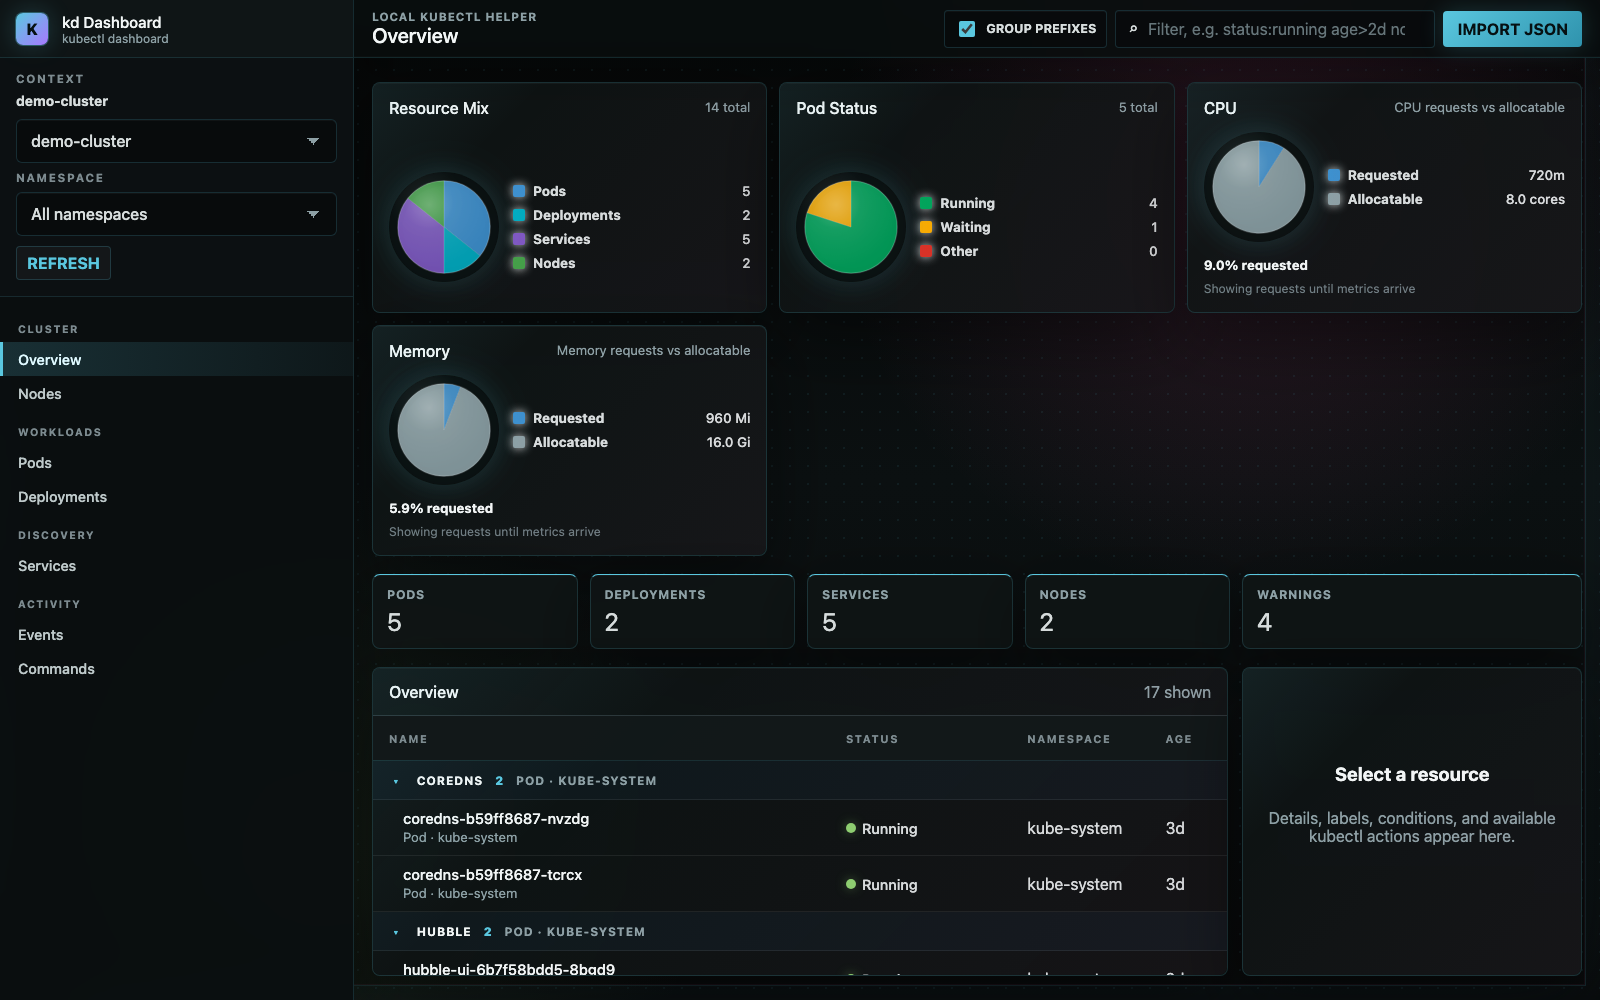
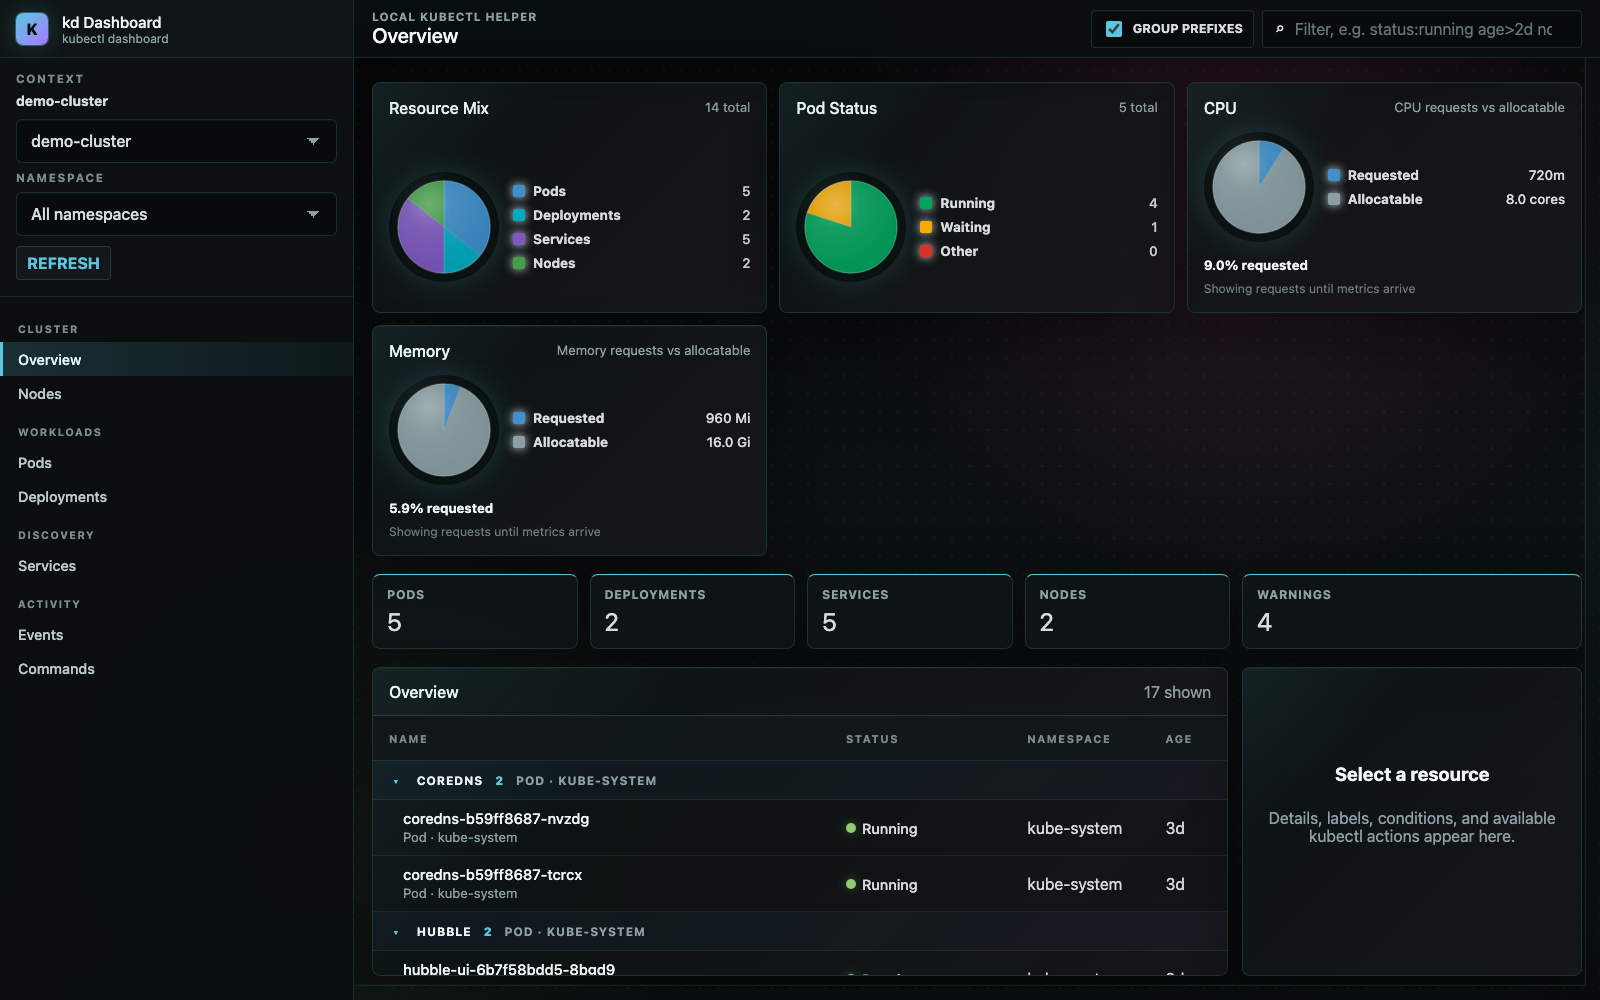
Hide JSON import when connected

Changed region(s): [[0.5938, 0.0, 1.0, 0.062]]

diff --git a/app.js b/app.js
@@ -51,6 +51,7 @@ const selectors = {
   stats: document.querySelector("#stats"),
   searchInput: document.querySelector("#searchInput"),
   groupToggle: document.querySelector("#groupToggle"),
+  loadButton: document.querySelector("#loadButton"),
   namespaceFilter: document.querySelector("#namespaceFilter"),
   importPanel: document.querySelector("#importPanel"),
   jsonInput: document.querySelector("#jsonInput"),
@@ -122,7 +123,7 @@ function bindEvents() {
     });
   });
 
-  document.querySelector("#loadButton").addEventListener("click", () => {
+  selectors.loadButton.addEventListener("click", () => {
     selectors.importPanel.classList.toggle("collapsed");
     if (!selectors.importPanel.classList.contains("collapsed")) {
       selectors.jsonInput.focus();
@@ -467,6 +468,7 @@ function render() {
   selectors.tableTitle.textContent = view.title === "Commands" ? "Command cookbook" : view.title;
   selectors.searchInput.disabled = view.kind === "commands";
   selectors.namespaceFilter.disabled = view.kind === "nodes" || view.kind === "commands";
+  selectors.loadButton.hidden = state.apiAvailable;
   selectors.importPanel.classList.toggle("collapsed", state.apiAvailable || allResources().length > 0);
   selectors.charts.classList.toggle("collapsed", view.kind !== "overview");
   renderCharts();

diff --git a/README.md b/README.md
@@ -60,13 +60,13 @@ kd --port 9000
 kd --file
 ```
 
-If you open `index.html` directly without `kd`, you can still use fallback import mode:
+If you open `index.html` directly without `kd`, the dashboard shows a fallback import panel:
 
 ```sh
 kubectl get pods,deployments,services,nodes,events -A -o json
 ```
 
-Paste the JSON into the import panel. The dashboard parses pods, deployments, services, nodes, and events, then generates copyable `kubectl` commands for reads and actions.
+Paste the JSON into the import panel. The dashboard parses pods, deployments, services, nodes, and events, then generates copyable `kubectl` commands for reads and actions. When the local `kd` helper is connected, this fallback import control is hidden because resources load automatically.
 
 ## Why commands are copyable
 